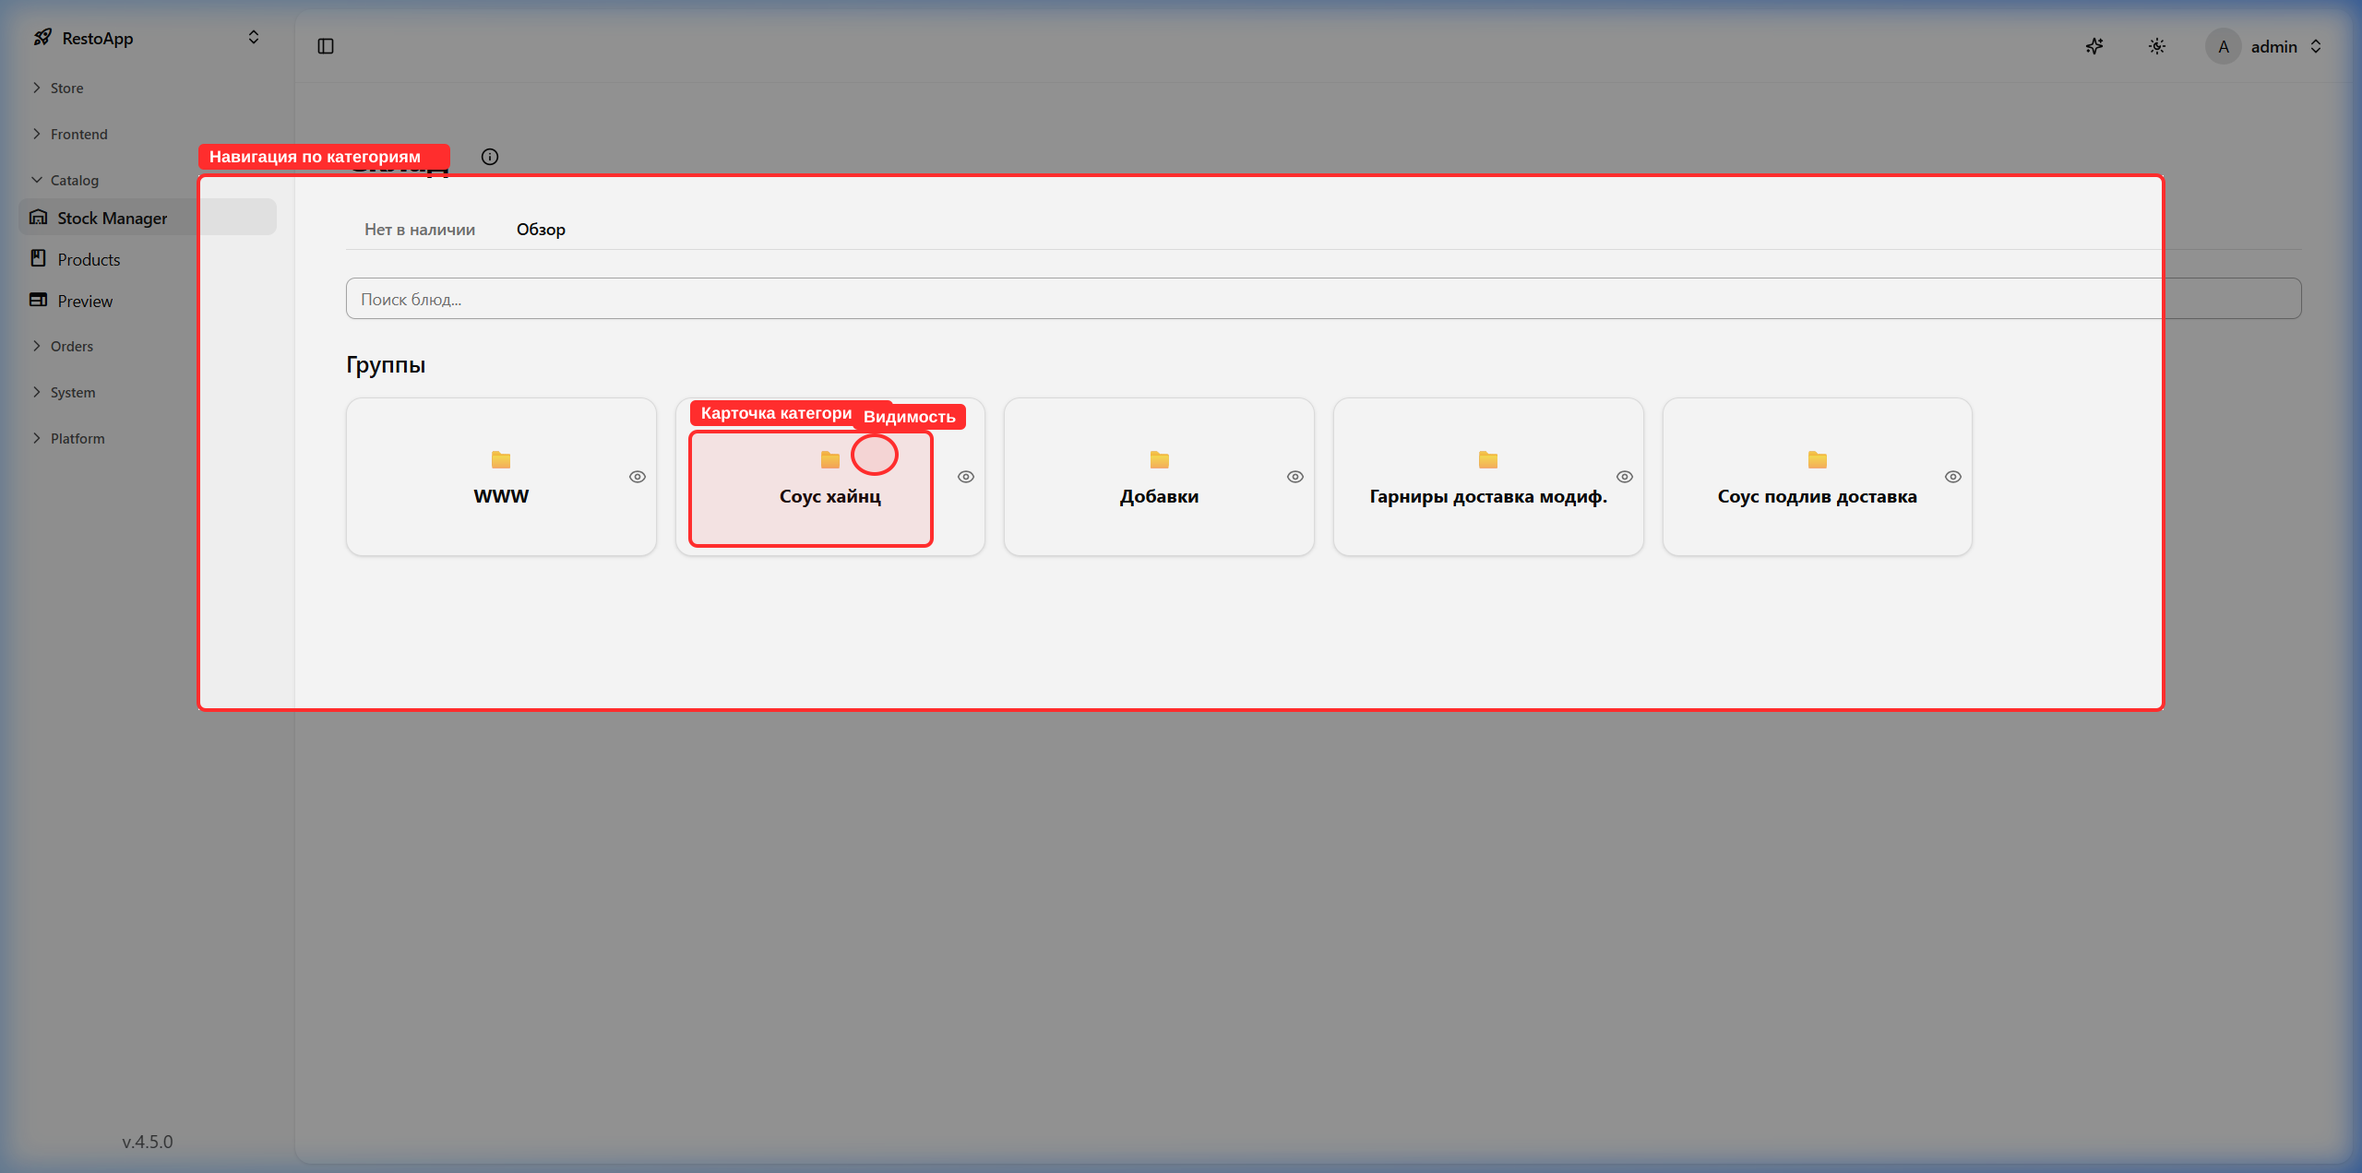
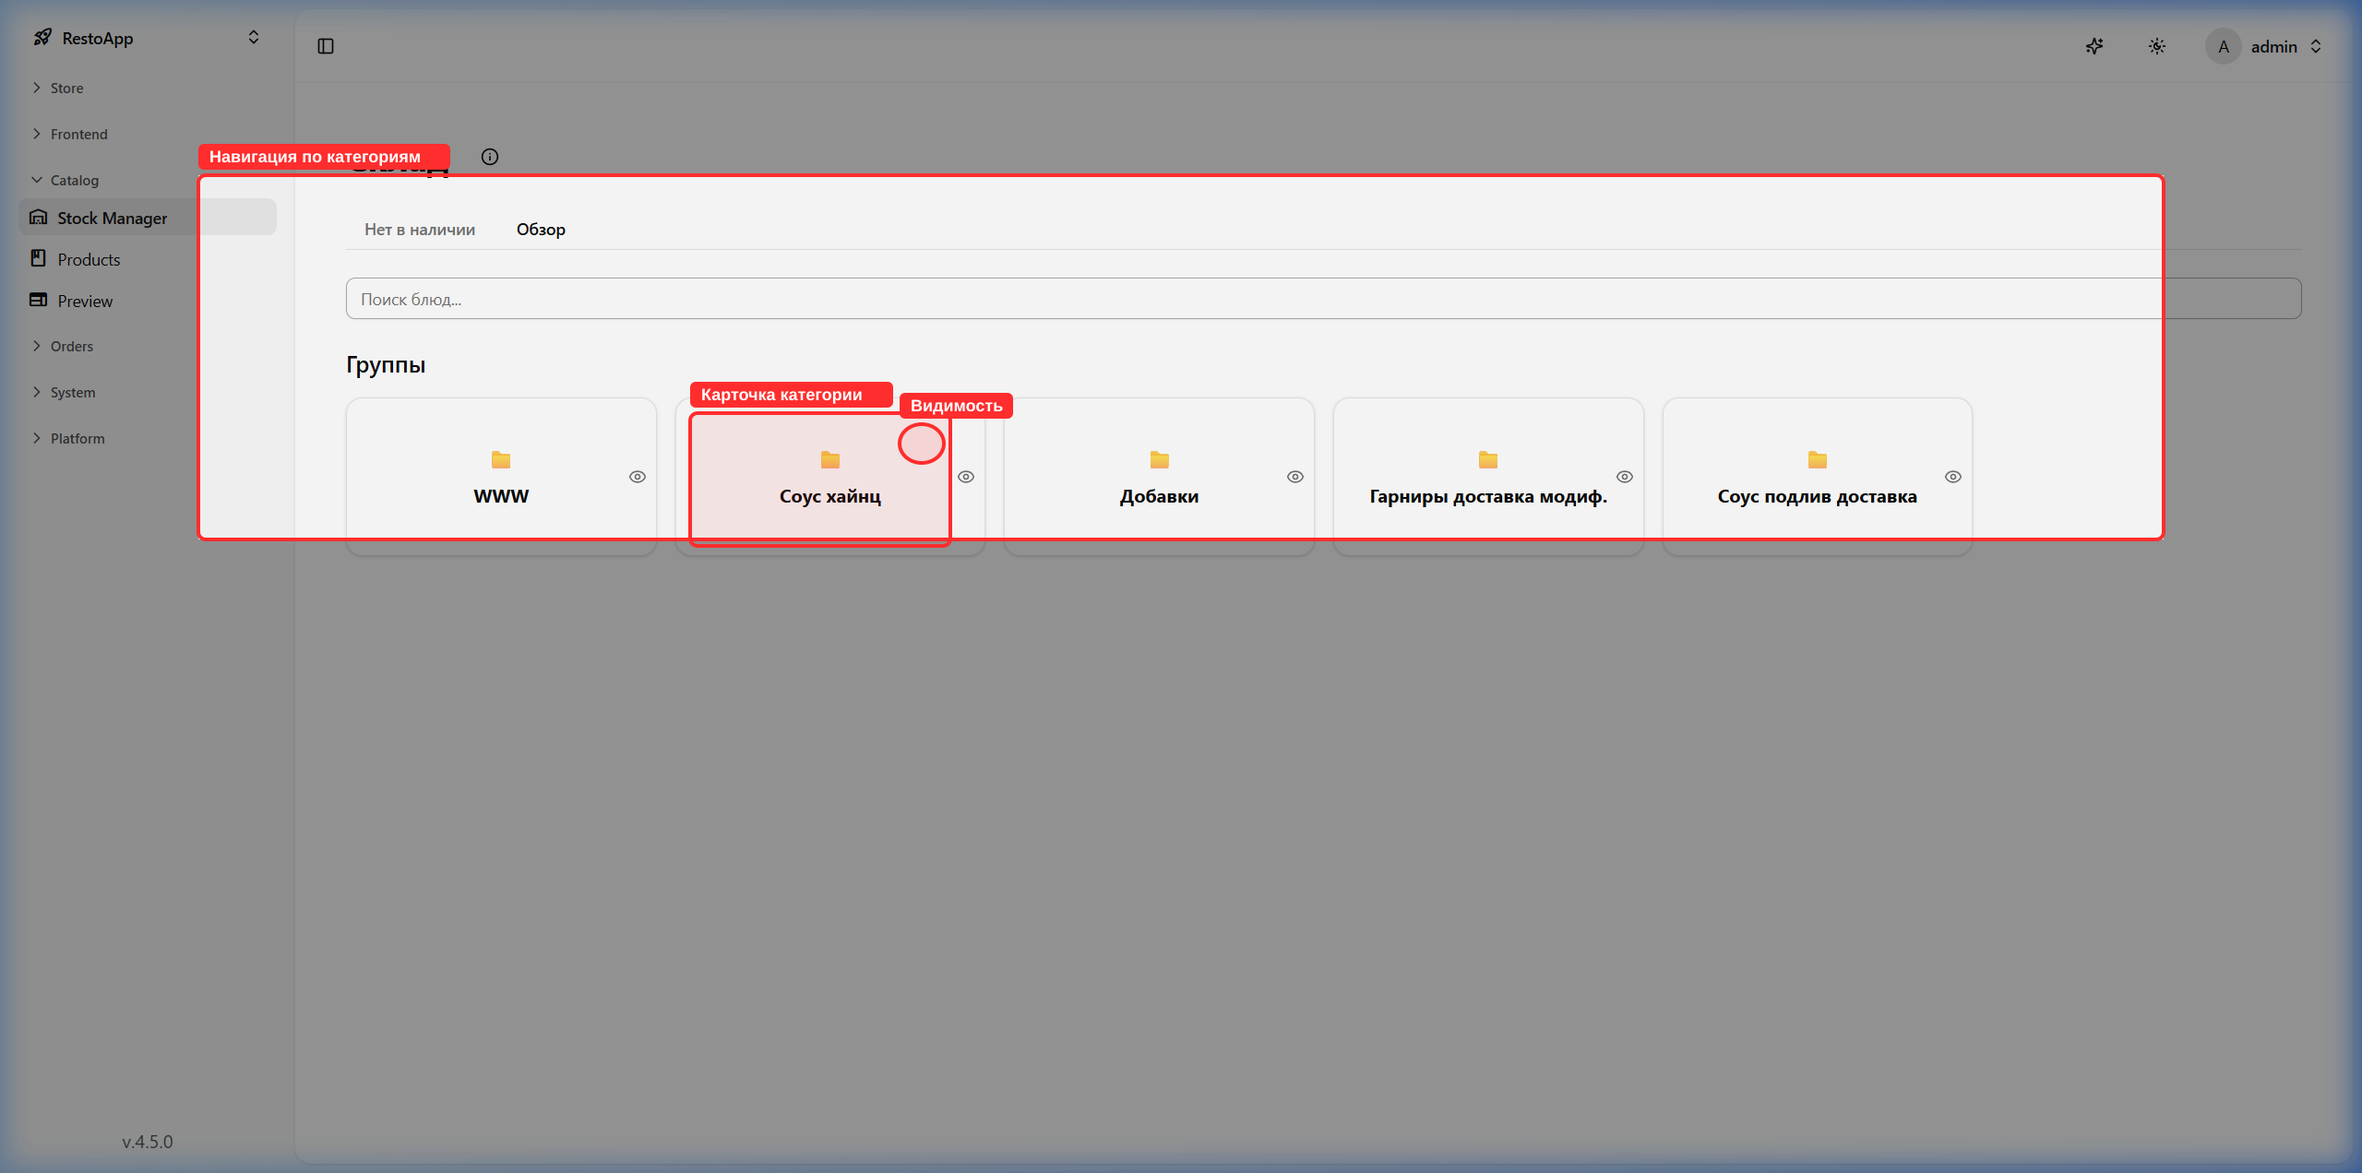
chore: update annotator calibrator/server and regenerate annotated screenshots

Changed region(s): [[0.0625, 0.3066, 0.9375, 0.6132]]

diff --git a/annotator/src/main.jsx b/annotator/src/main.jsx
@@ -12,8 +12,6 @@ import {
   Image,
   Pin,
   PinOff,
-  Play,
-  Save,
   Send,
   Settings2,
   ShieldCheck,
@@ -158,6 +156,8 @@ function EditorApp() {
   const lastPreviewRefreshAt = useRef(0);
   const previewAutoCloseTimer = useRef(null);
   const agentLogRef = useRef(null);
+  // Tracks the last text persisted to disk so the autosave effect only fires on real edits.
+  const savedConfigRef = useRef(null);
 
   const withConfig = (endpoint) => {
     if (!selectedConfig && !selectedImage) return endpoint;
@@ -179,6 +179,7 @@ function EditorApp() {
     Promise.all([fetchText(withConfig("/api/config")), fetchJson(withConfig("/api/state"))])
       .then(([text, nextState]) => {
         if (!mounted) return;
+        savedConfigRef.current = text;
         setConfigText(text);
         updateState(nextState);
       })
@@ -218,7 +219,51 @@ function EditorApp() {
     }
   }, [agentEngine]);
 
-  const previewSrc = previewMode === "input" || !state?.outputUrl ? state?.inputUrl : state?.outputUrl;
+  // Debounced autosave: persist + re-render whenever the config text changes.
+  useEffect(() => {
+    if (savedConfigRef.current === null) return undefined; // not loaded yet
+    if (activeAgentJobId) return undefined; // don't fight a running agent
+    if (configText === savedConfigRef.current) return undefined; // no real change
+    const handle = window.setTimeout(() => {
+      render(true).catch((error) => setStatus(`Error: ${error.message}`));
+    }, 900);
+    return () => window.clearTimeout(handle);
+  }, [configText, activeAgentJobId]);
+
+  // Pick up external changes (direct file edits, API, agent) and refresh editor + preview.
+  useEffect(() => {
+    if (activeAgentJobId) return undefined; // agent job has its own polling
+    const interval = window.setInterval(async () => {
+      // Skip while the user has unsaved local edits, so we never clobber them.
+      if (savedConfigRef.current !== null && configText !== savedConfigRef.current) return;
+      try {
+        const [text, nextState] = await Promise.all([
+          fetchText(withConfig("/api/config")),
+          fetchJson(withConfig("/api/state")),
+        ]);
+        if (text !== savedConfigRef.current) {
+          savedConfigRef.current = text;
+          setConfigText(text);
+          setStatus("Updated from disk");
+        }
+        if (nextState.outputUrl !== state?.outputUrl || nextState.inputUrl !== state?.inputUrl) {
+          updateState(nextState, { preserveStatus: true });
+        }
+      } catch {
+        // ignore transient polling errors
+      }
+    }, PREVIEW_REFRESH_INTERVAL_MS);
+    return () => window.clearInterval(interval);
+  }, [activeAgentJobId, configText, state?.outputUrl, state?.inputUrl]);
+
+  // Fall back to the clean source if the annotated output transiently fails to load
+  // (e.g. while it is being re-rendered), so the preview never goes blank.
+  const [outputError, setOutputError] = useState(false);
+  useEffect(() => {
+    setOutputError(false);
+  }, [state?.outputUrl]);
+  const showOutput = previewMode !== "input" && Boolean(state?.outputUrl) && !outputError;
+  const previewSrc = showOutput ? state?.outputUrl : state?.inputUrl;
   const previewVisible = previewOpen || previewPinned;
   const isAgentBusy = Boolean(activeAgentJobId);
 
@@ -234,12 +279,14 @@ function EditorApp() {
   }
 
   async function render(save) {
-    setStatus(save ? "Saving and rendering..." : "Rendering...");
+    setStatus(save ? "Saving..." : "Rendering...");
+    const textAtCall = configText;
     const nextState = await fetchJson(withConfig("/api/render"), {
       method: "POST",
       headers: { "Content-Type": "application/json" },
-      body: JSON.stringify({ configText, save }),
+      body: JSON.stringify({ configText: textAtCall, save }),
     });
+    if (save) savedConfigRef.current = textAtCall;
     updateState(nextState);
   }
 
@@ -283,7 +330,9 @@ function EditorApp() {
         setActiveAgentJobId(null);
         if (job.state) {
           updateState(job.state);
-          setConfigText(await fetchText(withConfig("/api/config")));
+          const latestConfig = await fetchText(withConfig("/api/config"));
+          savedConfigRef.current = latestConfig;
+          setConfigText(latestConfig);
         }
         setAgentStatus(finalAgentStatusLabel(job.status));
       } catch (error) {
@@ -375,12 +424,6 @@ function EditorApp() {
             <Button variant="soft" onClick={() => startAgentJob("calibrate", "").catch((error) => setAgentStatus(error.message))} disabled={isAgentBusy}>
               <Sparkles size={16} /> Calibrate
             </Button>
-            <Button variant="soft" onClick={() => render(false).catch((error) => setStatus(`Error: ${error.message}`))} disabled={isAgentBusy} data-testid="render-button">
-              <Play size={16} /> Render
-            </Button>
-            <Button variant="primary" onClick={() => render(true).catch((error) => setStatus(`Error: ${error.message}`))} disabled={isAgentBusy} data-testid="save-render-button">
-              <Save size={16} /> Save + Render
-            </Button>
           </div>
         </div>
       </header>
@@ -436,7 +479,7 @@ function EditorApp() {
           <div className="min-h-0 overflow-auto bg-checker p-3">
             {previewSrc ? (
               <div className="flex min-h-full items-center justify-center">
-                <img className="max-h-[calc(100vh-170px)] max-w-full rounded-md border border-neutral-200 bg-white shadow-sm" src={previewSrc} alt="Screenshot preview" data-testid="preview-image" />
+                <img className="max-h-[calc(100vh-170px)] max-w-full rounded-md border border-neutral-200 bg-white shadow-sm" src={previewSrc} alt="Screenshot preview" data-testid="preview-image" onError={() => showOutput && setOutputError(true)} />
               </div>
             ) : (
               <div className="flex h-48 items-center justify-center text-sm text-neutral-500">No rendered output yet</div>
@@ -510,24 +553,36 @@ function AgentStatus({ status, label }) {
   );
 }
 
+const STREAM_META = {
+  user: { label: "You", border: "border-blue-200", chip: "bg-blue-100 text-blue-700" },
+  thinking: { label: "Thinking", border: "border-violet-200", chip: "bg-violet-100 text-violet-700", muted: true },
+  tool: { label: "Tool", border: "border-amber-200", chip: "bg-amber-100 text-amber-700" },
+  stdout: { label: "Agent", border: "border-emerald-200", chip: "bg-emerald-100 text-emerald-700" },
+  system: { label: "System", border: "border-neutral-200", chip: "bg-neutral-100 text-neutral-600" },
+  stderr: { label: "Error", border: "border-red-200", chip: "bg-red-100 text-red-700" },
+  error: { label: "Error", border: "border-red-200", chip: "bg-red-100 text-red-700" },
+};
+
 function AgentMessage({ entry, expanded, onToggle }) {
   const text = String(entry.text || "").trim() || "(empty)";
   const isLong = text.length > LONG_MESSAGE_LIMIT || text.split("\n").length > 14;
   const stream = entry.stream || "system";
+  const meta = STREAM_META[stream] || STREAM_META.system;
   return (
-    <article
-      className={cn(
-        "grid gap-1 rounded-md border bg-white p-3 shadow-sm",
-        stream === "user" && "border-blue-200",
-        ["stdout", "system"].includes(stream) && "border-emerald-200",
-        ["stderr", "error"].includes(stream) && "border-red-200",
-      )}
-    >
+    <article className={cn("grid gap-1 rounded-md border bg-white p-3 shadow-sm", meta.border)}>
       <div className="flex items-center justify-between gap-2">
-        <span className="text-[11px] font-semibold uppercase text-neutral-500">{stream}</span>
+        <span className={cn("rounded px-1.5 py-0.5 text-[10px] font-semibold uppercase tracking-wide", meta.chip)}>{meta.label}</span>
         {stream === "system" && <CheckCircle2 className="text-emerald-600" size={14} />}
       </div>
-      <pre className={cn("whitespace-pre-wrap break-words font-mono text-xs leading-5 text-neutral-900", isLong && !expanded && "max-h-28 overflow-hidden")}>{text}</pre>
+      <pre
+        className={cn(
+          "whitespace-pre-wrap break-words font-mono text-xs leading-5 text-neutral-900",
+          meta.muted && "italic text-neutral-500",
+          isLong && !expanded && "max-h-28 overflow-hidden",
+        )}
+      >
+        {text}
+      </pre>
       {isLong && (
         <Button className="h-7 justify-self-start px-2 text-xs" variant="ghost" type="button" onClick={onToggle}>
           {expanded ? "Hide message" : "Show full message"}

diff --git a/annotator/lib/server.js b/annotator/lib/server.js
@@ -29,8 +29,11 @@ const AGENT_ENGINES = {
     command: process.env.ANNOTATOR_CLAUDE_COMMAND || "claude",
     args:
       process.env.ANNOTATOR_CLAUDE_ARGS ||
-      // sonnet = middle model (claude CLI has no separate reasoning-effort flag)
-      `-p --permission-mode bypassPermissions --model sonnet`,
+      // sonnet = middle model (claude CLI has no separate reasoning-effort flag).
+      // stream-json (+ --verbose --include-partial-messages) makes claude stream its
+      // thinking, text, and tool calls live; the server parses them into log lines.
+      `-p --output-format stream-json --verbose --include-partial-messages --permission-mode bypassPermissions --model sonnet`,
+    stream: "claude-json",
   },
 };
 const DEFAULT_AGENT_ENGINE = process.env.ANNOTATOR_AGENT_ENGINE || "codex";
@@ -194,8 +197,27 @@ async function startServer({ configPath, port }) {
 
   await new Promise((resolve) => server.listen(port, resolve));
 
+  // Auto-render when the config file changes on disk (direct edits, external tools).
+  // watchFile polls mtime, so it survives editors that replace the file atomically.
+  let rerenderTimer = null;
+  const onConfigFileChange = (curr, prev) => {
+    if (curr.mtimeMs === prev.mtimeMs) return;
+    clearTimeout(rerenderTimer);
+    rerenderTimer = setTimeout(() => {
+      generateFromConfigFile(resolvedConfigPath).catch((error) => {
+        console.error(`Auto-render after file change failed: ${error.message}`);
+      });
+    }, 250);
+  };
+  fs.watchFile(resolvedConfigPath, { interval: 1000 }, onConfigFileChange);
+
   return {
-    close: () => new Promise((resolve) => server.close(resolve)),
+    close: () =>
+      new Promise((resolve) => {
+        clearTimeout(rerenderTimer);
+        fs.unwatchFile(resolvedConfigPath, onConfigFileChange);
+        server.close(resolve);
+      }),
     port: server.address().port,
   };
 }
@@ -268,7 +290,11 @@ async function startAgentJob({ jobs, id, configPath, serverUrl, body }) {
   }, job.timeoutMs);
 
   child.stdin.end(prompt);
-  child.stdout.on("data", (chunk) => appendJobLog(job, "stdout", chunk.toString("utf8")));
+  const onStdout =
+    engine.stream === "claude-json"
+      ? makeClaudeStreamHandler(job)
+      : (chunk) => appendJobLog(job, "stdout", chunk.toString("utf8"));
+  child.stdout.on("data", onStdout);
   child.stderr.on("data", (chunk) => appendJobLog(job, "stderr", chunk.toString("utf8")));
   child.on("error", (error) => {
     job.status = "failed";
@@ -295,6 +321,104 @@ async function startAgentJob({ jobs, id, configPath, serverUrl, body }) {
   });
 
   return job;
+}
+
+// Parse claude --output-format stream-json --include-partial-messages (newline-delimited
+// JSON) into live log lines so the UI streams the agent's thinking, text, and tool calls
+// in real time instead of staying silent until each turn completes.
+function makeClaudeStreamHandler(job) {
+  let buffer = "";
+  let active = null; // currently streaming content block: { stream, created }
+
+  const startBlock = (stream) => {
+    active = { stream, created: false };
+  };
+  const appendDelta = (text) => {
+    if (!active || !text) return;
+    if (!active.created) {
+      appendJobLog(job, active.stream, text);
+      active.created = true;
+    } else {
+      const last = job.log[job.log.length - 1];
+      if (last) last.text += text;
+    }
+  };
+  const endBlock = () => {
+    if (active && active.created) {
+      const last = job.log[job.log.length - 1];
+      if (last && !String(last.text).trim()) job.log.pop();
+    }
+    active = null;
+  };
+
+  return (chunk) => {
+    buffer += chunk.toString("utf8");
+    let newlineIndex;
+    while ((newlineIndex = buffer.indexOf("\n")) >= 0) {
+      const line = buffer.slice(0, newlineIndex).trim();
+      buffer = buffer.slice(newlineIndex + 1);
+      if (!line) continue;
+      let event;
+      try {
+        event = JSON.parse(line);
+      } catch {
+        continue;
+      }
+      handleClaudeEvent(job, event, { startBlock, appendDelta, endBlock });
+    }
+  };
+}
+
+function handleClaudeEvent(job, event, { startBlock, appendDelta, endBlock }) {
+  if (event.type === "system" && event.subtype === "init") {
+    appendJobLog(job, "system", `claude session started (${event.model || "model"})`);
+    return;
+  }
+
+  // Live deltas (requires --include-partial-messages).
+  if (event.type === "stream_event" && event.event) {
+    const e = event.event;
+    if (e.type === "content_block_start") {
+      const block = e.content_block || {};
+      if (block.type === "thinking") startBlock("thinking");
+      else if (block.type === "text") startBlock("stdout");
+      else if (block.type === "tool_use") appendJobLog(job, "tool", `→ ${block.name || "tool"}`);
+    } else if (e.type === "content_block_delta") {
+      const delta = e.delta || {};
+      if (delta.type === "thinking_delta") appendDelta(delta.thinking || "");
+      else if (delta.type === "text_delta") appendDelta(delta.text || "");
+    } else if (e.type === "content_block_stop") {
+      endBlock();
+    }
+    return;
+  }
+
+  // Tool results returned to the agent (transparency on what it observed).
+  if (event.type === "user" && Array.isArray(event.message?.content)) {
+    for (const block of event.message.content) {
+      if (block.type === "tool_result") {
+        const text = extractToolResultText(block.content).slice(0, 300);
+        if (text.trim()) appendJobLog(job, "tool", `⤷ ${text.trim()}`);
+      }
+    }
+    return;
+  }
+
+  if (event.type === "result") {
+    endBlock();
+    if (event.is_error) appendJobLog(job, "error", "claude reported an error result.");
+  }
+}
+
+function extractToolResultText(content) {
+  if (typeof content === "string") return content;
+  if (Array.isArray(content)) {
+    return content
+      .map((part) => (typeof part === "string" ? part : part?.type === "text" ? part.text : ""))
+      .filter(Boolean)
+      .join(" ");
+  }
+  return "";
 }
 
 function stopAgentJob(job) {

diff --git a/annotator/lib/calibrator.js b/annotator/lib/calibrator.js
@@ -117,6 +117,7 @@ function validateCalibrationConfig(config, { allowMissingDescriptions = false } 
 }
 
 function buildCodexCalibrationPrompt({ configPath, serverUrl, maxIterations, instruction, validation }) {
+  const encoded = encodeURIComponent(configPath);
   return `
 You are a local screenshot annotation calibration agent for exactly one annotation file.
 
@@ -127,8 +128,12 @@ Scope:
 - Do not invent new documentation content.
 - Do not edit unrelated files.
 - Use the already running annotator server: ${serverUrl}
-- Editor URL: ${serverUrl}/?config=${encodeURIComponent(configPath)}
-- Rendered output URL: ${serverUrl}/output.png?config=${encodeURIComponent(configPath)}
+
+Hard constraints (stay efficient — do NOT wander):
+- Do NOT read or inspect the annotator's own source code (anything under the annotator/ directory).
+- Do NOT write pixel-scanning scripts (no Python/PIL, no image analysis programs). Judge alignment visually from the rendered preview and the source screenshot.
+- Do NOT explore or guess API routes. The only endpoints you need are the two exact commands below.
+- Keep coordinates in ORIGINAL screenshot pixels; any crop is applied automatically by the renderer.
 
 Input contract:
 - The YAML already contains factual annotation objects.
@@ -136,15 +141,16 @@ Input contract:
 - Use annotations[].description, annotations[].target, and annotations[].success_criteria as the calibration criteria.
 - There are ${validation.annotationCount} annotation object(s).
 
-Task:
-1. Read the YAML file.
-2. Open the annotator UI or use POST /api/render on the server.
-3. Inspect the rendered preview.
-4. Adjust only annotation geometry, label placement/text, and crop if needed for visual alignment.
-5. Preserve factual description fields unless a wording fix is directly needed to match the existing annotation.
-6. Render after each adjustment.
-7. Iterate up to ${Number(maxIterations) || 5} times.
-8. Save the final YAML when the annotations are visually acceptable.
+Calibration loop (follow exactly):
+1. Read the YAML file: ${configPath}
+2. Read the clean source screenshot named by the YAML "input" field (it lives in the same folder) to learn the real UI layout.
+3. View the current render — fetch it to a temp file and open it as an image:
+   curl -s "${serverUrl}/output.png?config=${encoded}&t=$(date +%s%N)" -o /tmp/calibration_preview.png
+4. Compare each red mark to its described target. If everything aligns, stop.
+5. Otherwise edit ONLY numeric geometry (x, y, width, height, from, to), label text, and label placement directly in the YAML file. Preserve factual description fields unless a wording fix is required.
+6. Re-render from the saved file (renders the file on disk; no body needed):
+   curl -s -X POST "${serverUrl}/api/render?config=${encoded}" -H "Content-Type: application/json" -d '{}'
+7. Go back to step 3. Do at most ${Number(maxIterations) || 5} edit iterations, then stop even if imperfect.
 
 Acceptance criteria:
 - Each mark aligns with its described target.
